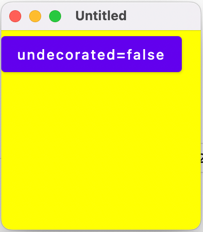
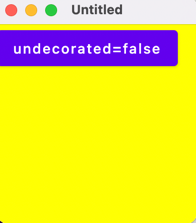
screen shot

Changed region(s): [[0.0, 0.0, 1.0, 1.0], [0.0612, 0.1883, 0.8265, 0.2691]]

diff --git a/README.md b/README.md
@@ -28,4 +28,4 @@ fun main() = application {
 
 ### With undecorated = true
 
-![img_1.png](img_1.png)
+![img_2.png](img_2.png)
